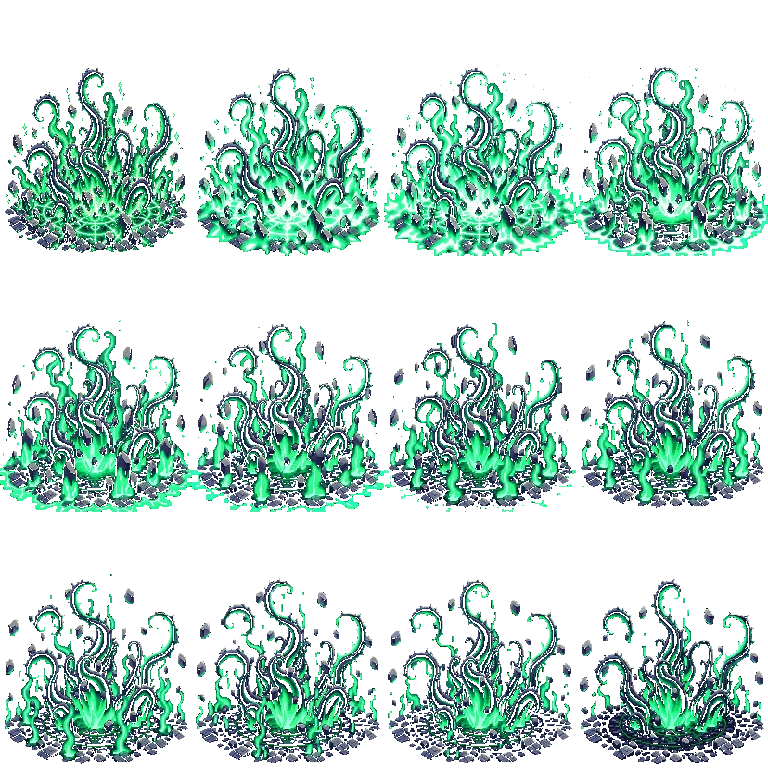
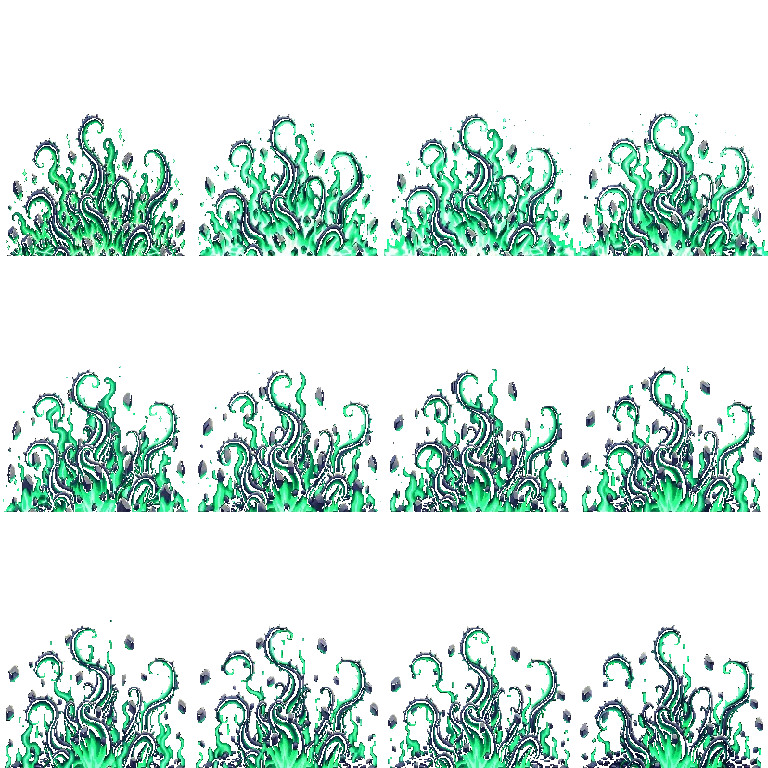
the conjuration plume sinks into its ring instead of standing on it
Sam: "the plume is too high, it should start from a more inferior
position."

The art was not the problem -- it fills its own frame to within 3px of
the bottom. The renderer sets the quad's bottom edge on the floor plane,
and on a flat ellipse that plane is the ring's CENTRELINE, so art flush
to the bottom of its cell erupts on top of the ring rather than out of
it.

--plume-sink pushes the art down inside the cell and clips what falls
off, so the roots sit below that line. Conjuration ships at 0.18, chosen
by baking 0.00 / 0.10 / 0.18 and looking at them over the ring.

It fixes a second thing noted and left alone last commit: this art
carries its own stone base, which was stacking on top of the real ring.
At 0.18 that base clips away and the tentacles come out of the portal
instead of out of a second floor drawn above it.

Transmutation is unchanged -- its whirlwind already meets its ring
cleanly, and sink is per-bake rather than global for that reason.

A test run during the build reported one failure; three clean runs
afterwards, so it was a flake under load rather than a real break.

613 tests pass, no new type errors, build exits 0.

Claude-Session: https://claude.ai/code/session_01YM78fUcD5G99JbAvTkRUtp

diff --git a/scripts/vfx/bake_school_sigil.py b/scripts/vfx/bake_school_sigil.py
@@ -500,7 +500,7 @@ def whirlwind(pal: np.ndarray, cw: int, ch: int, px: int, cols: int, count: int,
 
 
 def plume_from_art(src: Path, pal: np.ndarray, cw: int, ch: int, cols: int,
-                   count: int, recolor: bool) -> Image.Image:
+                   count: int, recolor: bool, sink: float = 0.0) -> Image.Image:
     """
     Use a ready-made pixel animation as the plume, instead of drawing one.
 
@@ -569,7 +569,17 @@ def plume_from_art(src: Path, pal: np.ndarray, cw: int, ch: int, cols: int,
         w, h = max(1, int(quad.width * scale)), max(1, int(quad.height * scale))
         quad = quad.resize((w, h), Image.NEAREST)
         cellim = Image.new("RGBA", (cw, ch), (0, 0, 0, 0))
-        cellim.alpha_composite(quad, ((cw - w) // 2, ch - h))  # base-flush
+        # SINK. The renderer sets the quad's bottom edge on the floor plane,
+        # which on a flat ellipse is its CENTRELINE — so art that is flush to
+        # the bottom of its cell appears to erupt on top of the ring rather
+        # than out of it (Sam, 2026-09-29: "the plume is too high, it should
+        # start from a more inferior position").
+        #
+        # Pushing the art down inside the cell moves its roots below that line
+        # and clips whatever falls off the bottom. For art that carries its own
+        # base that is two fixes at once: the effect sits into the ring, and
+        # the duplicated base stops stacking on top of the real one.
+        cellim.alpha_composite(quad, ((cw - w) // 2, ch - h + int(ch * sink)))
         sheet.paste(cellim, ((i % cols) * cw, (i // cols) * ch))
     return sheet
 
@@ -612,6 +622,8 @@ def main() -> None:
     ap.add_argument("--rocks", type=int, default=62)
     ap.add_argument("--plume-art", type=Path, default=None,
                     help="ready-made pixel animation to use as the plume")
+    ap.add_argument("--plume-sink", type=float, default=0.0, metavar="0..0.3",
+                    help="push the plume's roots below the floor plane, as a fraction of the cell")
     ap.add_argument("--recolor", action="store_true",
                     help="remap the art's wind hue onto the school ramp, leaving stone alone")
     ap.add_argument("--dry-run", action="store_true", help="measure and report, write nothing")
@@ -646,7 +658,8 @@ def main() -> None:
     ring_sheet = (glow_ring(ring, a.glow, a.cols, a.chase_lift) if a.glow > 1
                   else ring if a.chase <= 1
                   else chase_ring(ring, a.chase, a.cols, a.chase_lift, a.chase_arc))
-    plume = (plume_from_art(a.plume_art, pal, a.plume_w, a.plume_h, a.cols, a.frames, a.recolor)
+    plume = (plume_from_art(a.plume_art, pal, a.plume_w, a.plume_h, a.cols, a.frames, a.recolor,
+                            a.plume_sink)
              if a.plume_art else
              whirlwind(pal, a.plume_w, a.plume_h, a.px, a.cols, a.frames, a.rocks, a.seed)
              if a.plume_synth == "whirlwind" else
